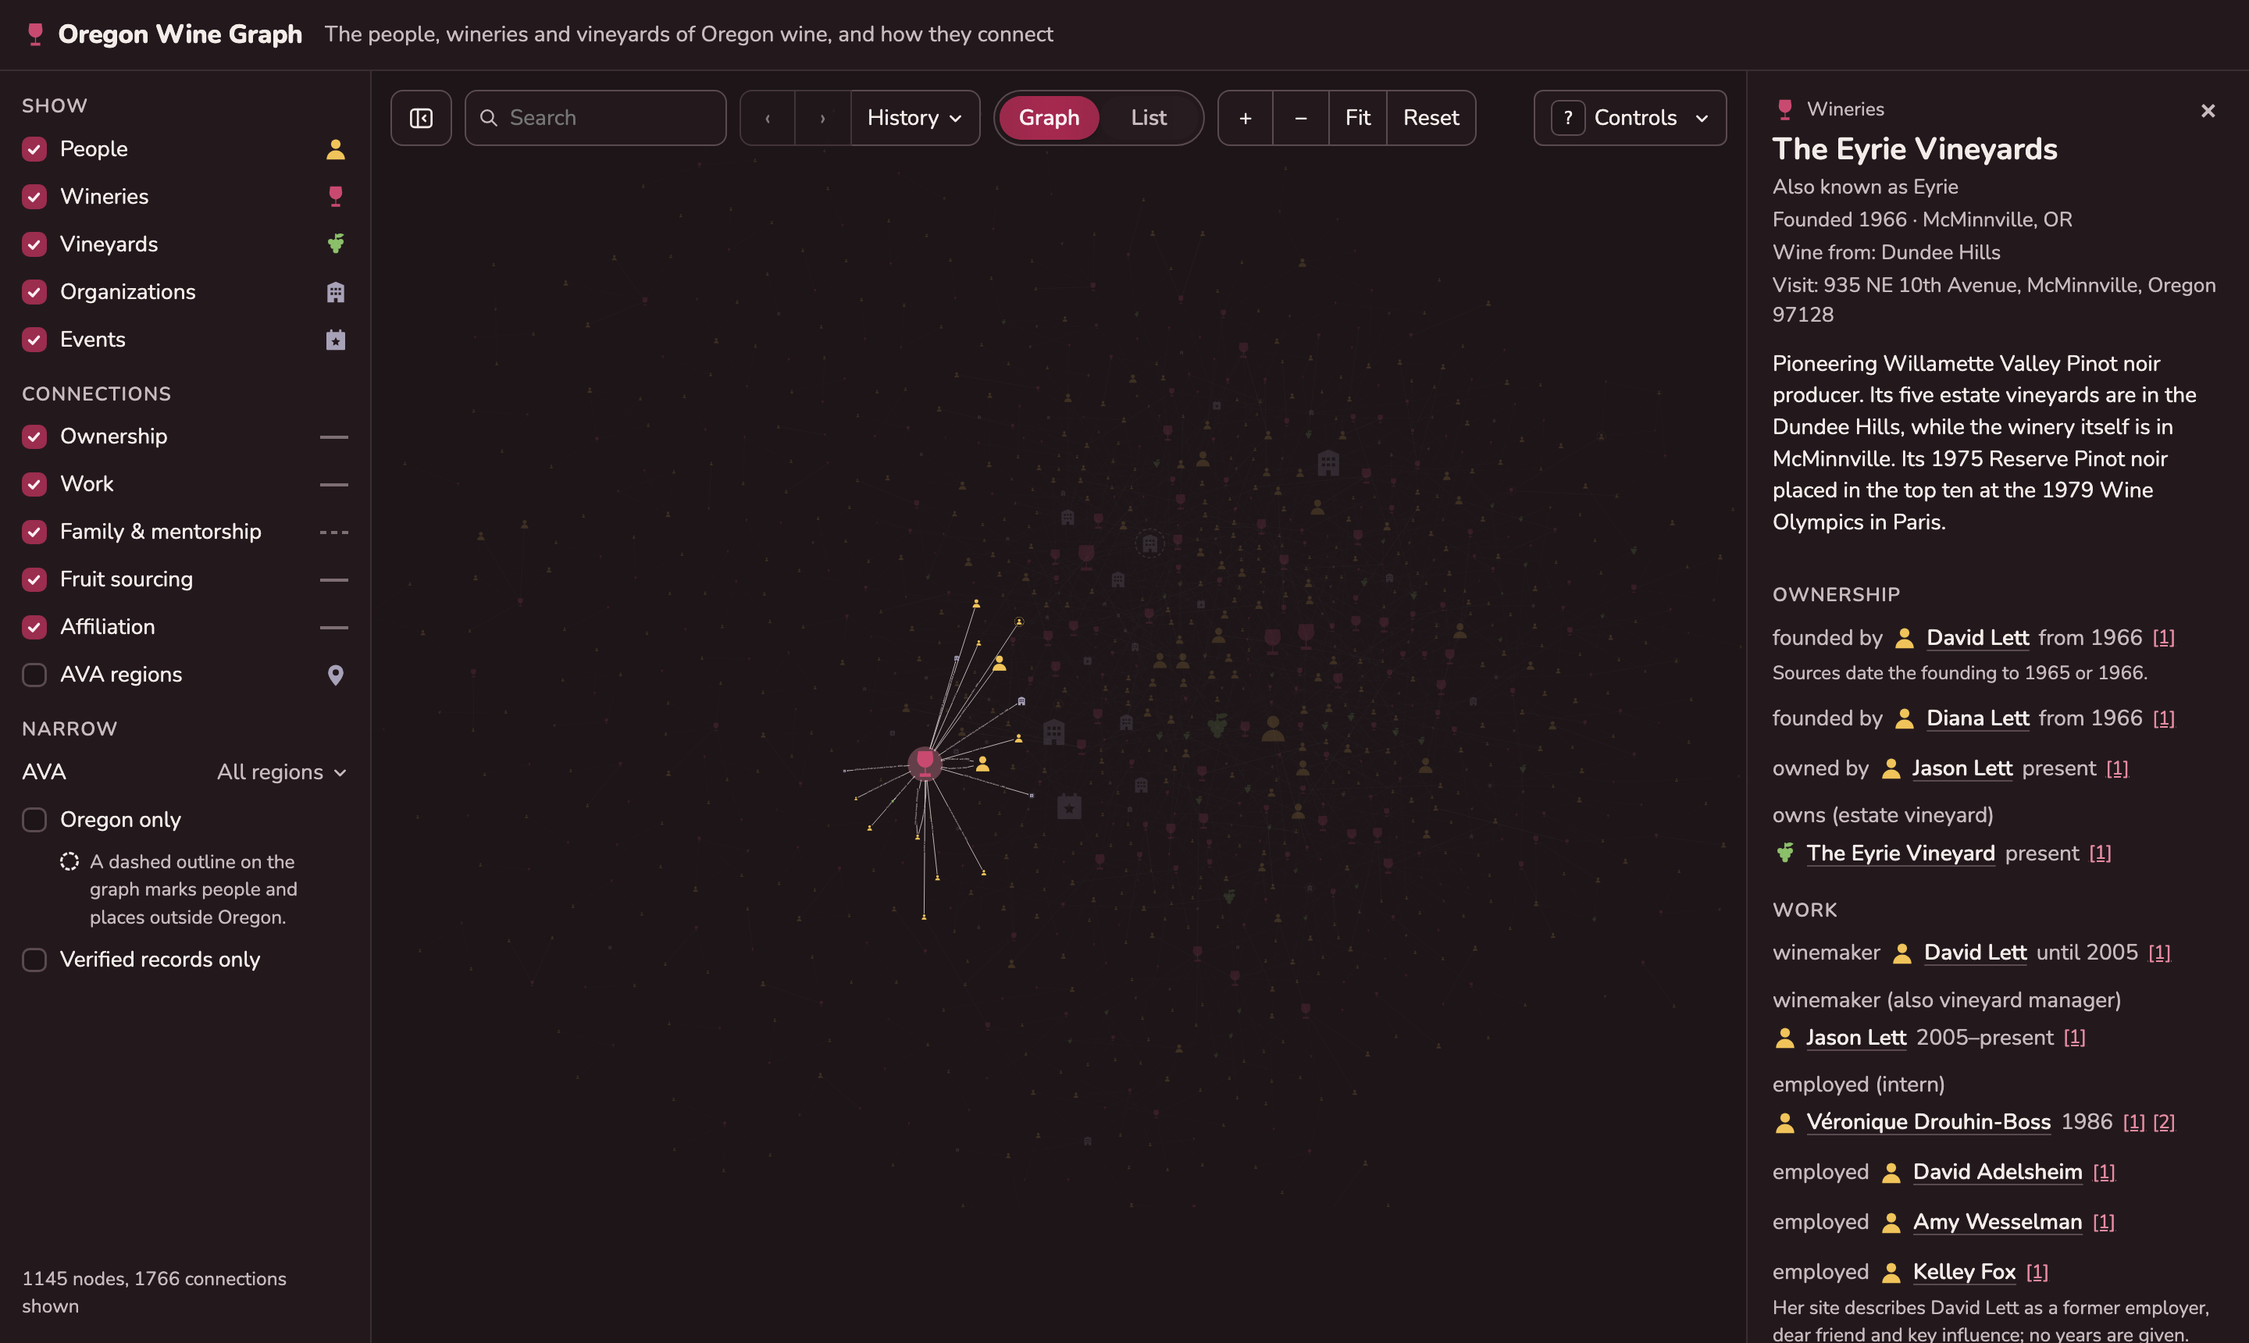
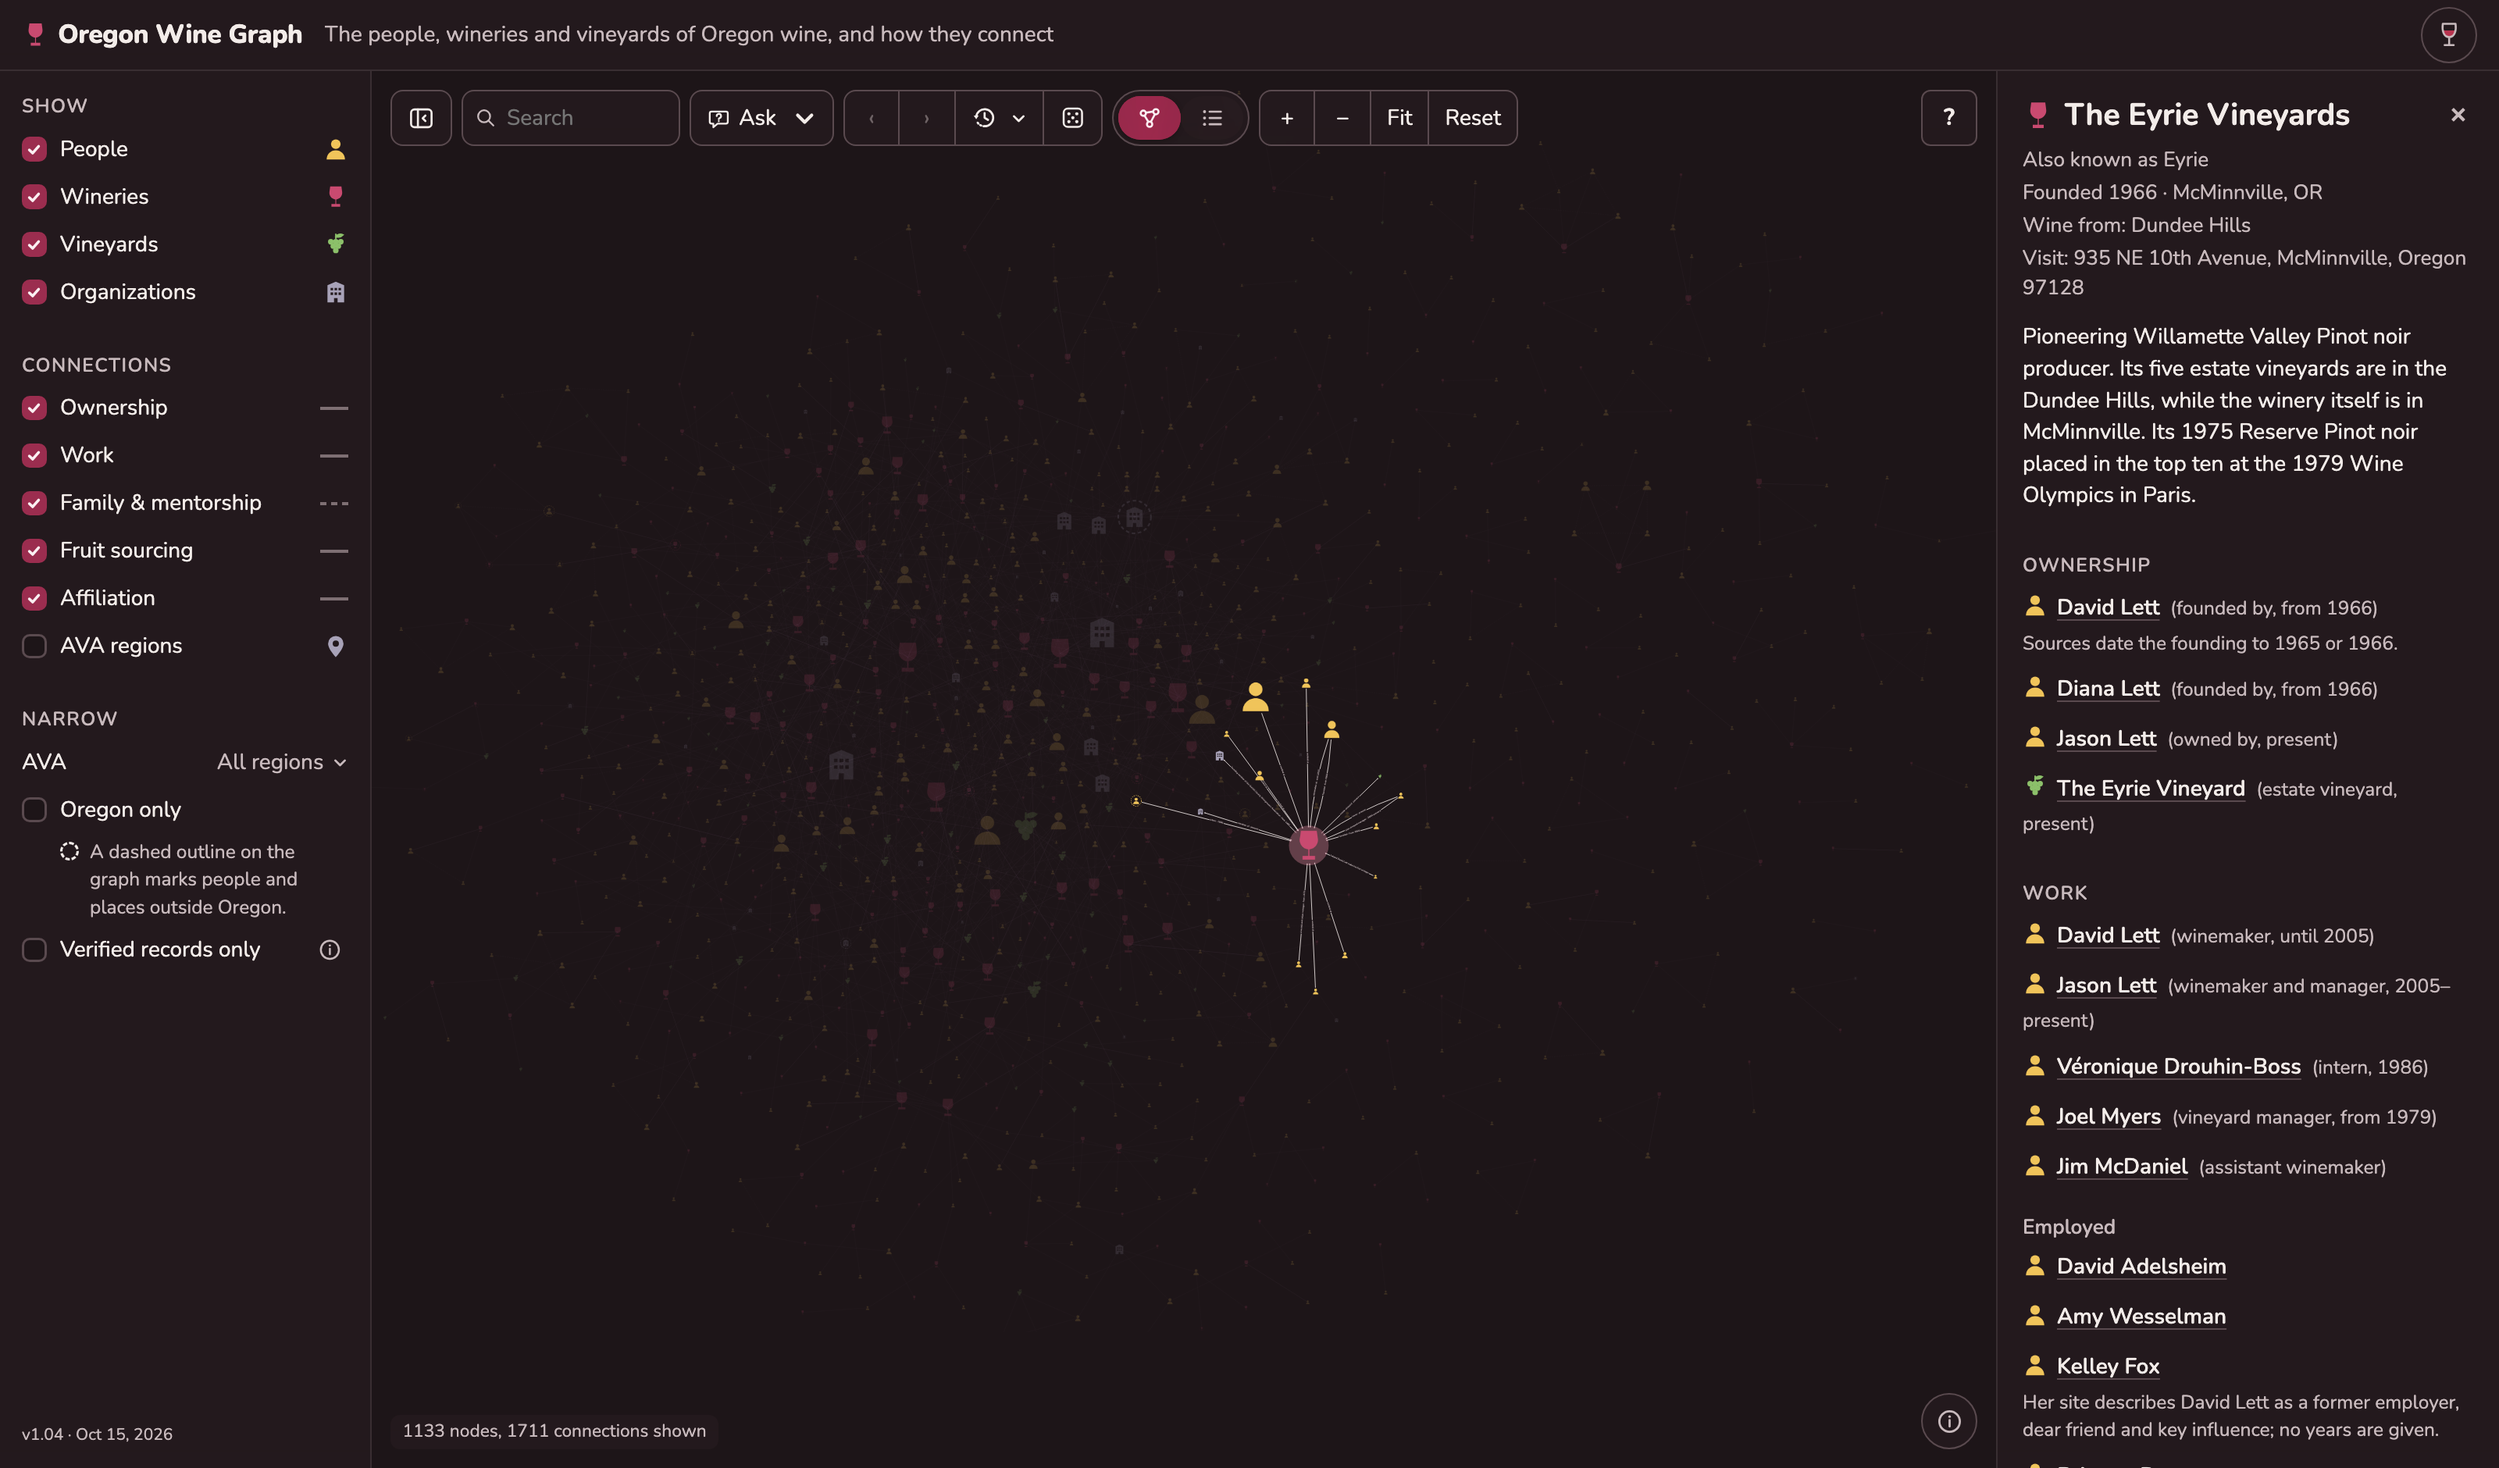
v1.04: explain verification beside the "Verified records only" filter; new README screenshot
- An "i" after "Verified records only" opens "How records are verified":
  - every record cites a source, and unchecked records show as drafts, which the filter
    hides;
  - a record is verified when reviewed by a person, or by the automated check (the
    connection, each year and the role all supported with 90% confidence or more; 1.2% of
    planted wrong facts slipped through; unreadable pages never count);
  - today's counts, worked out from the data (1,980 by the check, 128 by a person, 1,011
    drafts);
  - a link to the README's evidence section on GitHub.
  As in the About panel, a × comes first, so opening it focuses close rather than the link.
- README: counts updated to match, and a new screenshot (docs/screenshot.png). It's the
  production build in dark mode at 1600x940, 2x, with The Eyrie Vineyards selected,
  showing the current layout: bracketed roles, icon toolbar, theme glass, About, the
  version line.

155 tests pass.

diff --git a/src/components/VerifiedInfo.vue b/src/components/VerifiedInfo.vue
@@ -1,0 +1,184 @@
+<script setup lang="ts">
+import { PopoverArrow, PopoverClose, PopoverContent, PopoverPortal, PopoverRoot, PopoverTrigger } from 'reka-ui'
+import { computed } from 'vue'
+import { useGraph } from '../composables/useGraph'
+
+// An "i" beside "Verified records only": how a record comes to be verified, with today's
+// counts read from the data (the README's "Verification" section says the same at length)
+const { state } = useGraph()
+
+const counts = computed(() => {
+  const records = state.graph ? [...state.graph.nodes, ...state.graph.edges] : []
+  const verified = records.filter((record) => record.verified)
+  return {
+    checked: verified.filter((record) => record.verifiedBy === 'jev').length,
+    person: verified.filter((record) => record.verifiedBy !== 'jev' && record.verifiedBy !== 'boundary').length,
+    drafts: records.length - verified.length,
+  }
+})
+const number = (count: number) => count.toLocaleString('en-US')
+
+const README = 'https://github.com/arringtonm/oregon-wine-graph#how-we-know-the-evidence-behind-each-record'
+</script>
+
+<template>
+  <PopoverRoot>
+    <PopoverTrigger class="verified-info" aria-label="How records are verified">
+      <svg viewBox="0 0 20 20" aria-hidden="true">
+        <circle cx="10" cy="10" r="7.5" />
+        <path d="M10 9v4.6" />
+        <circle class="verified-info__dot" cx="10" cy="6.4" r="0.95" />
+      </svg>
+    </PopoverTrigger>
+    <PopoverPortal>
+      <PopoverContent
+        class="methodology"
+        side="right"
+        align="start"
+        :side-offset="10"
+        :collision-padding="12"
+        aria-labelledby="methodology-heading"
+      >
+        <!-- First, so opening the panel puts focus on closing it rather than on a link -->
+        <PopoverClose class="methodology__close" aria-label="Close">
+          <span aria-hidden="true">×</span>
+        </PopoverClose>
+        <h2 id="methodology-heading">How records are verified</h2>
+        <p>
+          Every person, place and connection cites at least one source. Records not yet checked against
+          their sources are shown as drafts; this filter hides them.
+        </p>
+        <p>A record is verified in one of two ways:</p>
+        <ul>
+          <li><strong>Reviewed by a person</strong>, who has read its sources and confirmed it.</li>
+          <li>
+            <strong>Checked automatically.</strong> A model reads each cited page and judges whether it supports
+            the connection, each year and the role, approving only when everything is supported with at least 90%
+            confidence. When we planted a wrong fact in about 400 verified records, 1.2% still passed.
+            Unreadable pages never count for or against a record.
+          </li>
+        </ul>
+        <p class="methodology__counts">
+          Today {{ number(counts.checked) }} records are verified by the automated check and
+          {{ number(counts.person) }} by a person; {{ number(counts.drafts) }} are drafts.
+        </p>
+        <p>
+          <a :href="README" target="_blank" rel="noopener">
+            More on our sources and rules<span class="visually-hidden"> (opens in a new tab)</span>
+          </a>
+        </p>
+        <PopoverArrow class="methodology__arrow" :width="10" :height="5" />
+      </PopoverContent>
+    </PopoverPortal>
+  </PopoverRoot>
+</template>
+
+<style scoped>
+.verified-info {
+  display: inline-grid;
+  flex: none;
+  place-items: center;
+  width: 24px;
+  height: 24px;
+  padding: 0;
+  border: 0;
+  border-radius: 50%;
+  background: none;
+  color: var(--text-secondary);
+  cursor: pointer;
+}
+
+.verified-info:hover,
+.verified-info[data-state='open'] {
+  background: var(--wash);
+  color: var(--text-primary);
+}
+
+.verified-info svg {
+  width: 1.1rem;
+  height: 1.1rem;
+  fill: none;
+  stroke: currentColor;
+  stroke-width: 1.6;
+  stroke-linecap: round;
+}
+
+.verified-info__dot {
+  fill: currentColor;
+  stroke: none;
+}
+</style>
+
+<style>
+/* Teleported to the page body */
+.methodology {
+  position: relative;
+  z-index: 45;
+  width: min(22rem, calc(100vw - 2rem));
+  max-height: min(var(--reka-popover-content-available-height, 80vh), 34rem);
+  padding: 0.85rem 1rem 1rem;
+  overflow-y: auto;
+  border: 1px solid var(--border-strong);
+  border-radius: var(--radius);
+  background: var(--surface-raised);
+  box-shadow: var(--shadow);
+  font-size: 0.875rem;
+}
+
+.methodology h2 {
+  margin: 0 2rem 0.5rem 0;
+  font-size: 1rem;
+}
+
+.methodology p {
+  margin: 0 0 0.5rem;
+}
+
+.methodology ul {
+  display: flex;
+  flex-direction: column;
+  gap: 0.4rem;
+  margin: 0 0 0.6rem;
+  padding-left: 1.1rem;
+}
+
+.methodology strong {
+  font-weight: 600;
+}
+
+.methodology__counts {
+  color: var(--text-secondary);
+}
+
+.methodology a {
+  color: var(--link);
+}
+
+.methodology__close {
+  position: absolute;
+  top: 0.5rem;
+  right: 0.5rem;
+  display: grid;
+  place-items: center;
+  width: 28px;
+  height: 28px;
+  padding: 0;
+  border: 0;
+  border-radius: var(--radius-sm);
+  background: none;
+  color: var(--text-secondary);
+  font: inherit;
+  font-size: 1.3rem;
+  line-height: 1;
+  cursor: pointer;
+}
+
+.methodology__close:hover {
+  background: var(--wash);
+  color: var(--text-primary);
+}
+
+.methodology__arrow {
+  fill: var(--surface-raised);
+}
+</style>

diff --git a/src/components/GraphControls.vue b/src/components/GraphControls.vue
@@ -5,6 +5,7 @@ import { EDGE_CATEGORIES, EDGE_CATEGORY_LABELS, NODE_TYPE_LABELS } from '../data
 import { PopoverContent, PopoverPortal, PopoverRoot, PopoverTrigger } from 'reka-ui'
 import Check from './Check.vue'
 import Chevron from './Chevron.vue'
+import VerifiedInfo from './VerifiedInfo.vue'
 import NodeGlyph from './NodeGlyph.vue'
 
 const { state, avas } = useGraph()
@@ -140,7 +141,11 @@ function onDrawerKey(event: KeyboardEvent) {
         <span class="controls__outside" aria-hidden="true"></span>
         A dashed outline on the graph marks people and places outside Oregon.
       </p>
-      <Check v-model="state.verifiedOnly">Verified records only</Check>
+      <!-- The "i" explains how records are verified -->
+      <div class="controls__with-info">
+        <Check v-model="state.verifiedOnly">Verified records only</Check>
+        <VerifiedInfo />
+      </div>
     </fieldset>
 
     <div class="controls__foot">
@@ -303,6 +308,16 @@ legend {
 
 .controls__line--geography {
   border-top-style: dotted;
+}
+
+.controls__with-info {
+  display: flex;
+  align-items: center;
+  gap: 0.25rem;
+}
+
+.controls__with-info > :first-child {
+  flex: 1;
 }
 
 .controls__hint {

diff --git a/README.md b/README.md
@@ -47,7 +47,7 @@ A record is either **verified** or an **unverified draft**. Drafts are shown, be
 2. **Checked against its sources automatically.** A decision model reads the text of each cited page and judges whether it supports the record: the relationship itself, each year, and the role. A record is approved only when a source supports the relationship, and every detail is supported, each with a confidence of at least 0.9. To measure how often that goes wrong, we deliberately corrupted one fact in each of about 400 records that had passed (a year changed, a relationship swapped) and checked them again: 1.2% still passed, every one of them by swapping a closely related relationship, such as "founded" for "helped organize". Sources the model can't read, such as pages behind bot protection, never count for or against a record.
 3. **Confirmed by AVA boundaries.** A vineyard's AVA can be confirmed by testing its location against the official AVA boundary maps. This is available but not yet in use, as no vineyard has mapped coordinates yet.
 
-Today 1,980 records are verified by the automated check and 125 by a person; the remaining 1,014 are drafts.
+Today 1,980 records are verified by the automated check and 128 by a person; the remaining 1,011 are drafts. The site's "Verified records only" filter has an ⓘ that shows the current counts.
 
 ### Rules we follow
 
